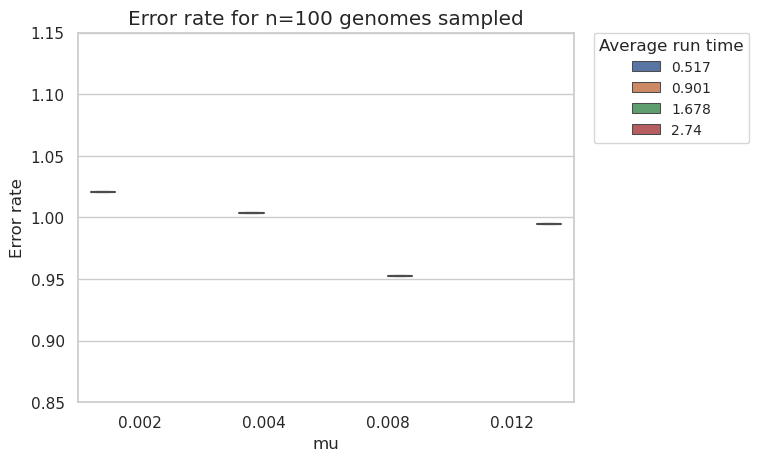
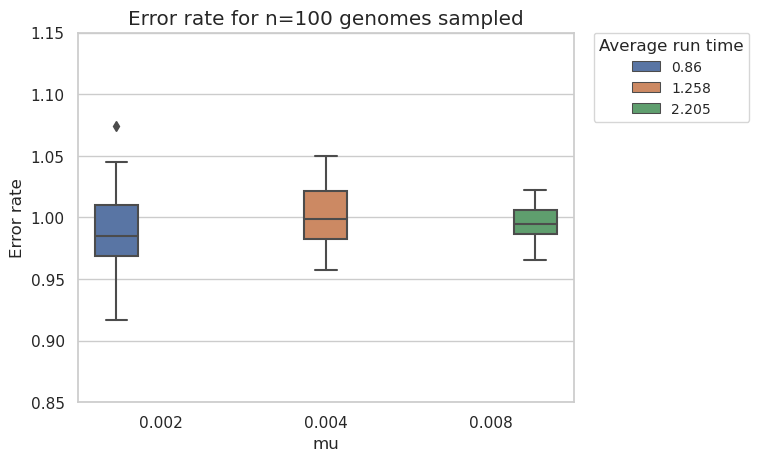
migale calculation

diff --git a/sei/sei_migale.py b/sei/sei_migale.py
@@ -43,8 +43,9 @@ def dadi_params_optimisation():
       - mu: the mutation rate
       - n: the number of sampled monoploid genomes
     """
-    sample_list, mu_list = [10, 20, 40, 60, 100], [2e-3, 4e-3, 8e-3, 12e-3, 2e-2,  8e-2,  2e-1]
-    nb_simu = 3
+    # sample_list, mu_list = [10, 20, 40, 60, 100], [2e-3, 4e-3, 8e-3, 12e-3, 2e-2,  8e-2,  2e-1]
+    sample_list, mu_list = [10, 20, 40, 60, 100], [2e-3, 4e-3, 8e-3]
+    nb_simu = 25
     dico = {}
 
     for sample in sample_list:
@@ -63,11 +64,11 @@ def dadi_params_optimisation():
 
             # Parameters for the simulation
             params = simulation_parameters(sample=sample, ne=1, rcb_rate=mu, mu=mu, length=1e5)
-            print("Msprime simulation - sample size {} & mutation rate {}".format(sample, mu))
+            # print("Msprime simulation - sample size {} & mutation rate {}".format(sample, mu))
 
             for i in range(nb_simu):
                 start_time = time.time()
-                print("Simulation: {}/{}".format(i, nb_simu), end="\r")
+                # print("Simulation: {}/{}".format(i, nb_simu), end="\r")
 
                 # Simulation for a constant population with msprime
                 sfs_cst = \
@@ -75,11 +76,11 @@ def dadi_params_optimisation():
                                           kappa=0.0, debug=False)
 
                 # Generate the SFS file compatible with dadi
-                f.dadi_data(sfs_cst, dadi.constant_model.__name__, path="../Data/")
+                f.dadi_data(sfs_cst, dadi.constant_model.__name__, path="/home/pimbert/work/Species_evolution_inference/Data/")
 
                 # Dadi inference
                 _, estimated_theta = dadi.dadi_inference(pts_list, dadi.constant_model,
-                                                         path="../Data/")
+                                                         path="/home/pimbert/work/Species_evolution_inference/Data/")
 
                 theoritical_theta = computation_theoritical_theta(ne=1, mu=mu, length=1e5)
                 error_rate = estimated_theta / theoritical_theta
@@ -97,7 +98,7 @@ def dadi_params_optimisation():
 
         dico[sample]["Execution time"] = execution_time
 
-    path = "$HOME/work/Species_evolution_inference/Figures/Error_rate/"
+    path = "/home/pimbert/work/Species_evolution_inference/Figures/Error_rate/"
     plot.plot_error_rate(dico, path=path)
 
 

diff --git a/sei/files/files.py b/sei/files/files.py
@@ -24,7 +24,7 @@ def dadi_data(sfs, fichier, path="./Data/"):
     fichier: str
         file in which the SFS will be written in the format compatible with dadi
     """
-    with open("{}/{}.fs".format(path, fichier), "w") as filout:
+    with open("{}{}.fs".format(path, fichier), "w") as filout:
         filout.write("{} unfolded \"{}\"\n".format(len(sfs)+2, fichier))
 
         # Write SFS
